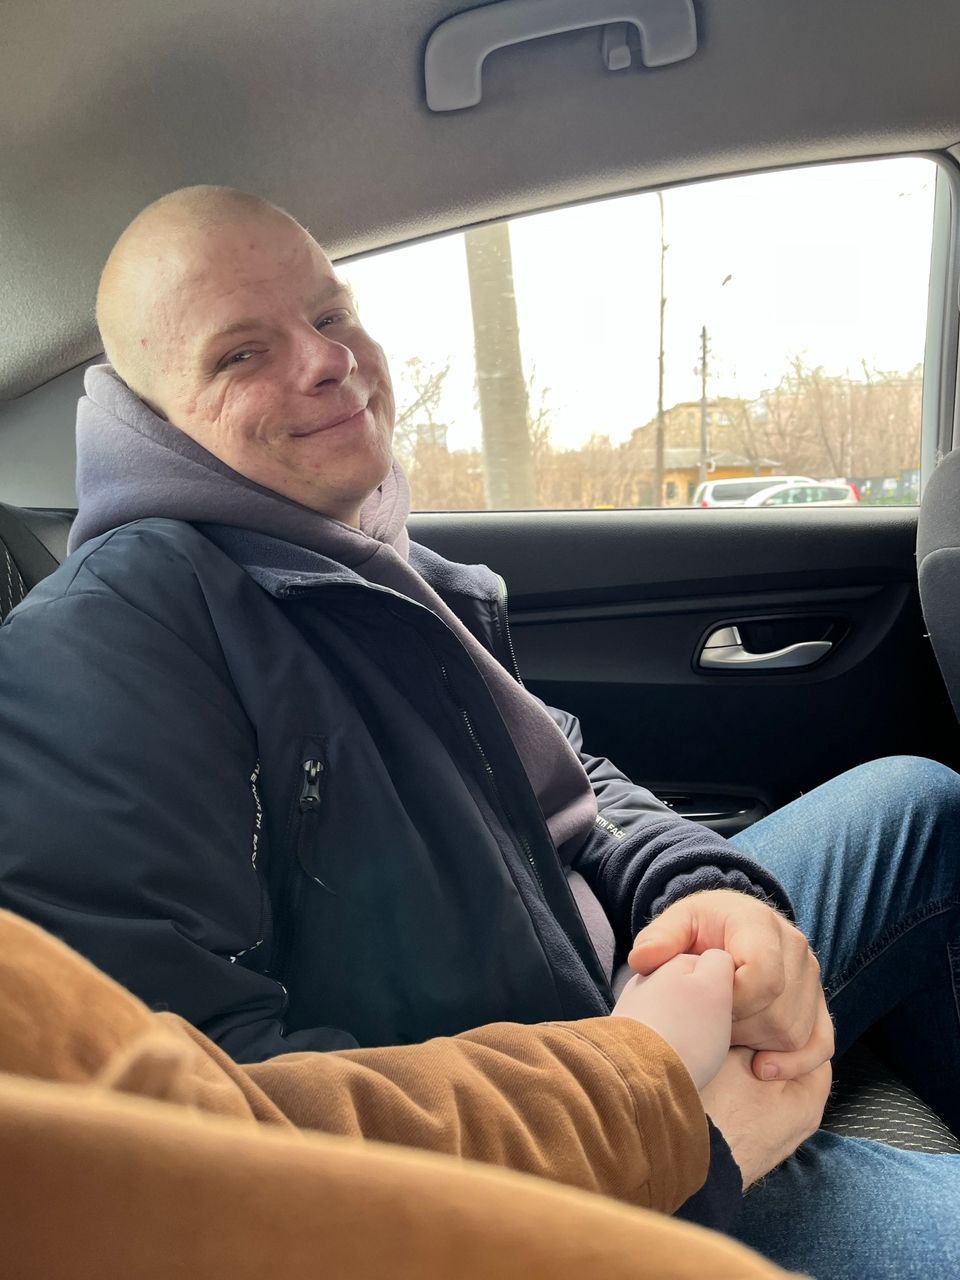
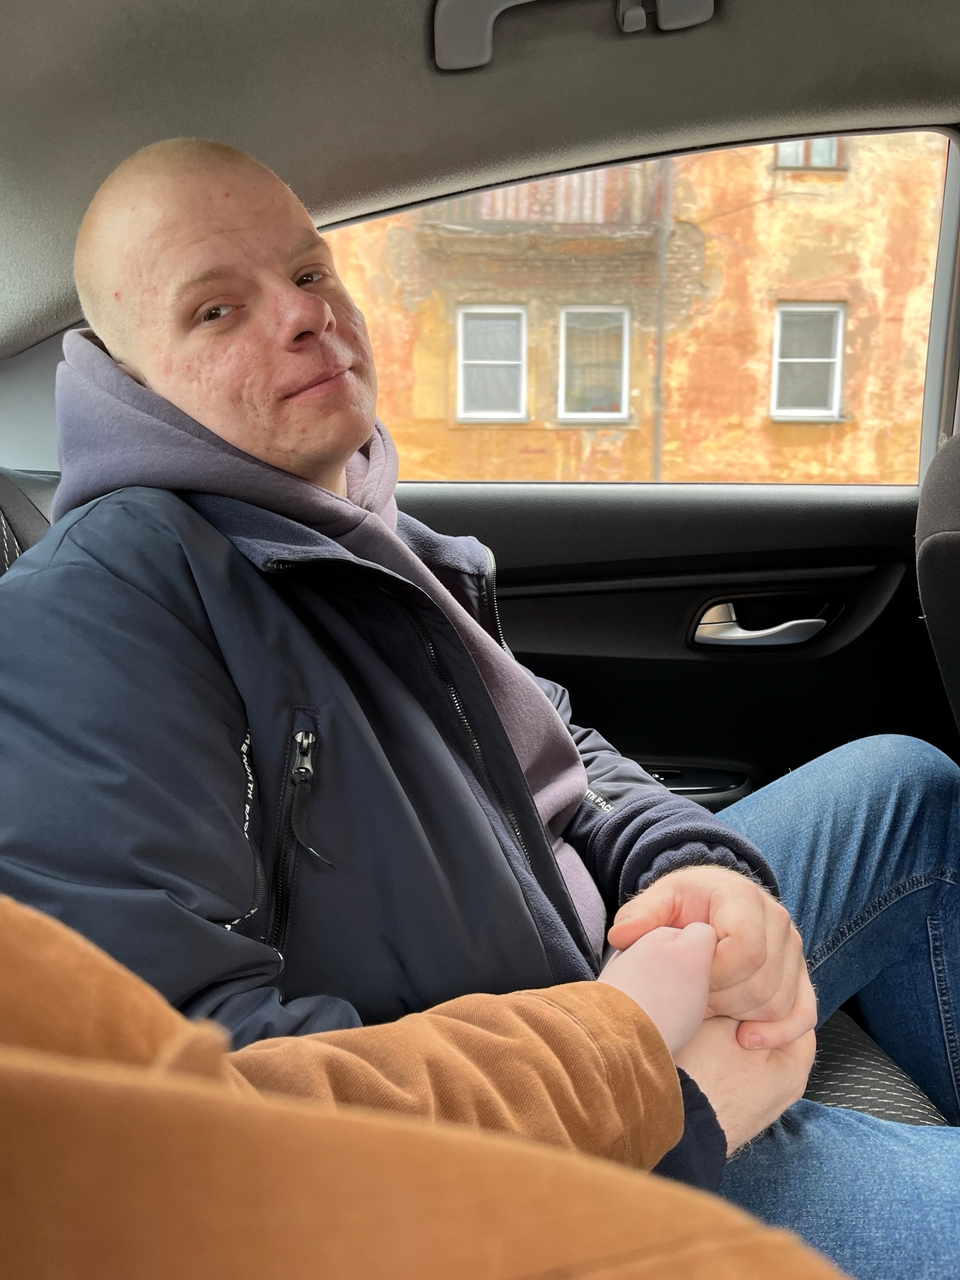
edit 3

diff --git a/index.html b/index.html
@@ -188,22 +188,24 @@
                     <div class="dresscode_title fade-in">
                         <h2>Дресс-код</h2>
                     </div>
-                <div class="dresscode_p">
-                        <p class="fade-in">
+                    <div class="dresscode_p fade-in">
+                        <p>
                             Нам будет очень приятно, если вы поддержите цветовую гамму торжества и выберите
                             наряды в соответствии с цветовой палитрой нашей свадьбы
                         </p>
-                        <div class="palitra fade-in">
+                        <div class="palitra">
                         <div class="palitra_row">
                             <div style="background: #61242c;" class="circle"></div>
                             <div style="background: #513a2a;" class="circle"></div>
                             <div style="background: #ede0cd;" class="circle"></div>
                         </div>
                     </div>
-                        <p style="margin-top: 1em; font-weight: 600;" class="fade-in">Мужчины:</p>
-                        <p style="margin-top: 0.5em;" class="fade-in">Костюмы в соответствии с цветовой палитрой нашей свадьбы, или черные брюки и белые рубашки</p>
-                        <p style="margin-top: 1em; font-weight: 600;" class="fade-in">Девушки:</p>
-                        <p style="margin-top: 0.5em;" class="fade-in">Наряды в соответствии с цветовой палитрой нашей свадьбы</p>
+                    <div class="fade-in">
+                        <p style="margin-top: 1em; font-weight: 600;">Мужчины:</p>
+                        <p style="margin-top: 0.5em;">Костюмы в соответствии с цветовой палитрой нашей свадьбы, или черные брюки и белые рубашки</p>
+                        <p style="margin-top: 1em; font-weight: 600;">Девушки:</p>
+                        <p style="margin-top: 0.5em;">Наряды в соответствии с цветовой палитрой нашей свадьбы</p>
+                    </div>
                 </div>
             </div>
         </section>

diff --git a/scripts/index.js b/scripts/index.js
@@ -29,7 +29,7 @@ const initFadeInAnimation = () => {
           trigger: element,
           start: "top 80%",
           end: "bottom 80%",
-          scrub: 2,
+          scrub: 1,
           toggleActions: "play none none reverse",
         },
       });